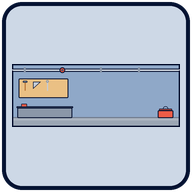
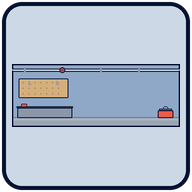
decor(art): the laundry's machines sit in their bays, and the pegboard empties
Two things the furnished-room previews showed once the built-ins were actually
drawn.

The laundry's three floor slots were near its three machine bays rather than on
them, so each washing machine stood six pixels to the right of the recess it
was meant to fill. The bays are painted at px 12-58, 90-137 and 169-215, whose
centres are anchor units 4, 14 and 24.

And maintenance still painted a hammer, a saw and a spanner on its pegboard,
which is the same object `storage_toolRack` sells — the last of the rooms that
drew furniture the player can also buy. The board keeps its holes and two empty
hooks; the tools are decor standing in front of it.

Claude-Session: https://claude.ai/code/session_016RyabVyrU1r7Gt5gpqWmUo

Changed region(s): [[0.0938, 0.4062, 0.3125, 0.5]]

diff --git a/hotel-city-tycoon/src/core/systems/roomAnchors.ts b/hotel-city-tycoon/src/core/systems/roomAnchors.ts
@@ -187,9 +187,11 @@ const LAYOUTS: Layout = {
     s('ceiling', 12, 2, 5, 5),
   ],
   laundry: [
-    s('ground', 5, 14, 6, 7, 'appliance_washer'),
-    s('ground', 16, 14, 6, 7, 'appliance_washer'),
-    s('ground', 27, 14, 6, 7, 'appliance_dryer'),
+    // On the bays, not merely near them: the machine bays are painted at px
+    // 12-58, 90-137 and 169-215, whose centres are units 4, 14 and 24.
+    s('ground', 4, 14, 6, 7, 'appliance_washer'),
+    s('ground', 14, 14, 6, 7, 'appliance_washer'),
+    s('ground', 24, 14, 6, 7, 'appliance_dryer'),
     s('surface', 16, 14, 6, 7),
     s('wall', 9, 8, 3, 6),
     s('wall', 29, 8, 3, 6),

diff --git a/hotel-city-tycoon/tools/art/rooms_service.py b/hotel-city-tycoon/tools/art/rooms_service.py
@@ -222,15 +222,25 @@ def maintenance(c: Canvas, fy: float) -> None:
     c.circle(w * 0.30, 9.5, 4.4, fill=P["coral"], ink=P["ink"], lw=LW_PROP)
     c.circle(w * 0.30, 9.5, 1.6, fill=P["metal"], ink=P["ink"], lw=LW_FACE)
 
-    # Pegboard and tools.
+    # The pegboard, and only the pegboard.
+    #
+    # It used to carry a hammer, a saw and a spanner, which is the same object
+    # `storage_toolRack` sells: buying that stood a second board of tools in
+    # the room beside the first. What is bolted to the building is the board —
+    # perforated ply, hooks, and the shadow of what hangs on them — and the
+    # tools are decor standing in front of it.
     px, pw = 10.0, min(w * 0.40, 76)
     c.rrect(px, 22, pw, 30, r=1.8, fill=P["woodPale"], ink=P["ink"], lw=LW_PROP)
-    # A hammer, a saw and a spanner, drawn as silhouettes so they survive 1x.
-    c.line([(px + 10, 27), (px + 10, 40)], P["woodDk"], 1.6)
-    c.rrect(px + 6.5, 25.5, 7.0, 3.0, r=1.0, fill=P["metalDk"], ink=P["ink"], lw=LW_FACE)
-    c.poly([(px + 22, 27), (px + 34, 27), (px + 22, 38)], fill=P["metal"], ink=P["ink"], lw=LW_FACE)
-    c.line([(px + 44, 27), (px + 44, 40)], P["metal"], 1.8)
-    c.circle(px + 44, 26.5, 2.2, ink=P["metalDk"], lw=1.2)
+    c.rrect(px + 2, 24, pw - 4, 26, r=1.2, fill=shade(P["woodPale"], 0.10))
+    for row in range(3):
+        for col in range(int((pw - 10) // 9)):
+            c.circle(px + 7 + col * 9.0, 28.5 + row * 8.5, 1.1,
+                     fill=shade(P["woodPale"], 0.34))
+    # Two hooks, empty, so the board reads as a place things hang rather than
+    # as a sheet of pegboard-coloured wall.
+    for hx in (px + 16, px + pw - 18):
+        c.line([(hx, 26.5), (hx, 31.0)], P["metalDk"], 1.6)
+        c.line([(hx, 31.0), (hx + 3.0, 31.0)], P["metalDk"], 1.6)
 
     # Workbench with a vice: the fixed furniture of the room.
     counter(c, 8, fy, min(w * 0.46, 84), 16, body=P["metalDk"], top=P["metal"])
